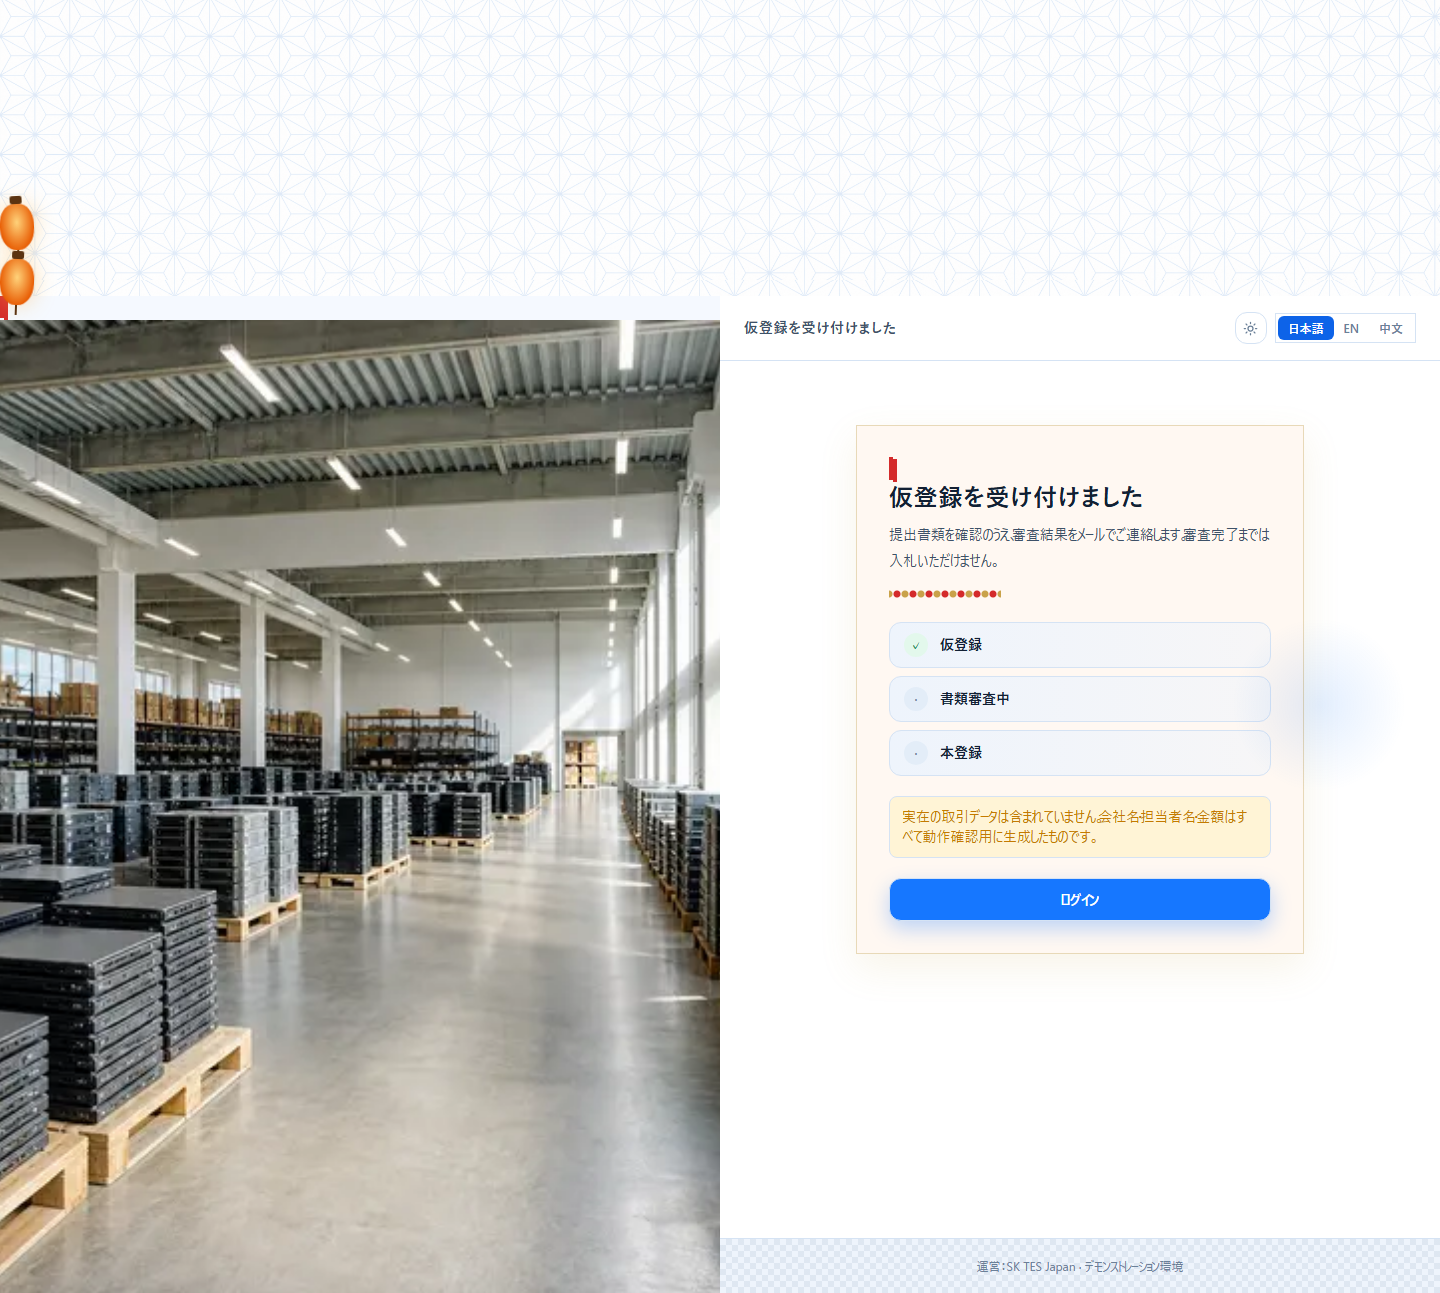
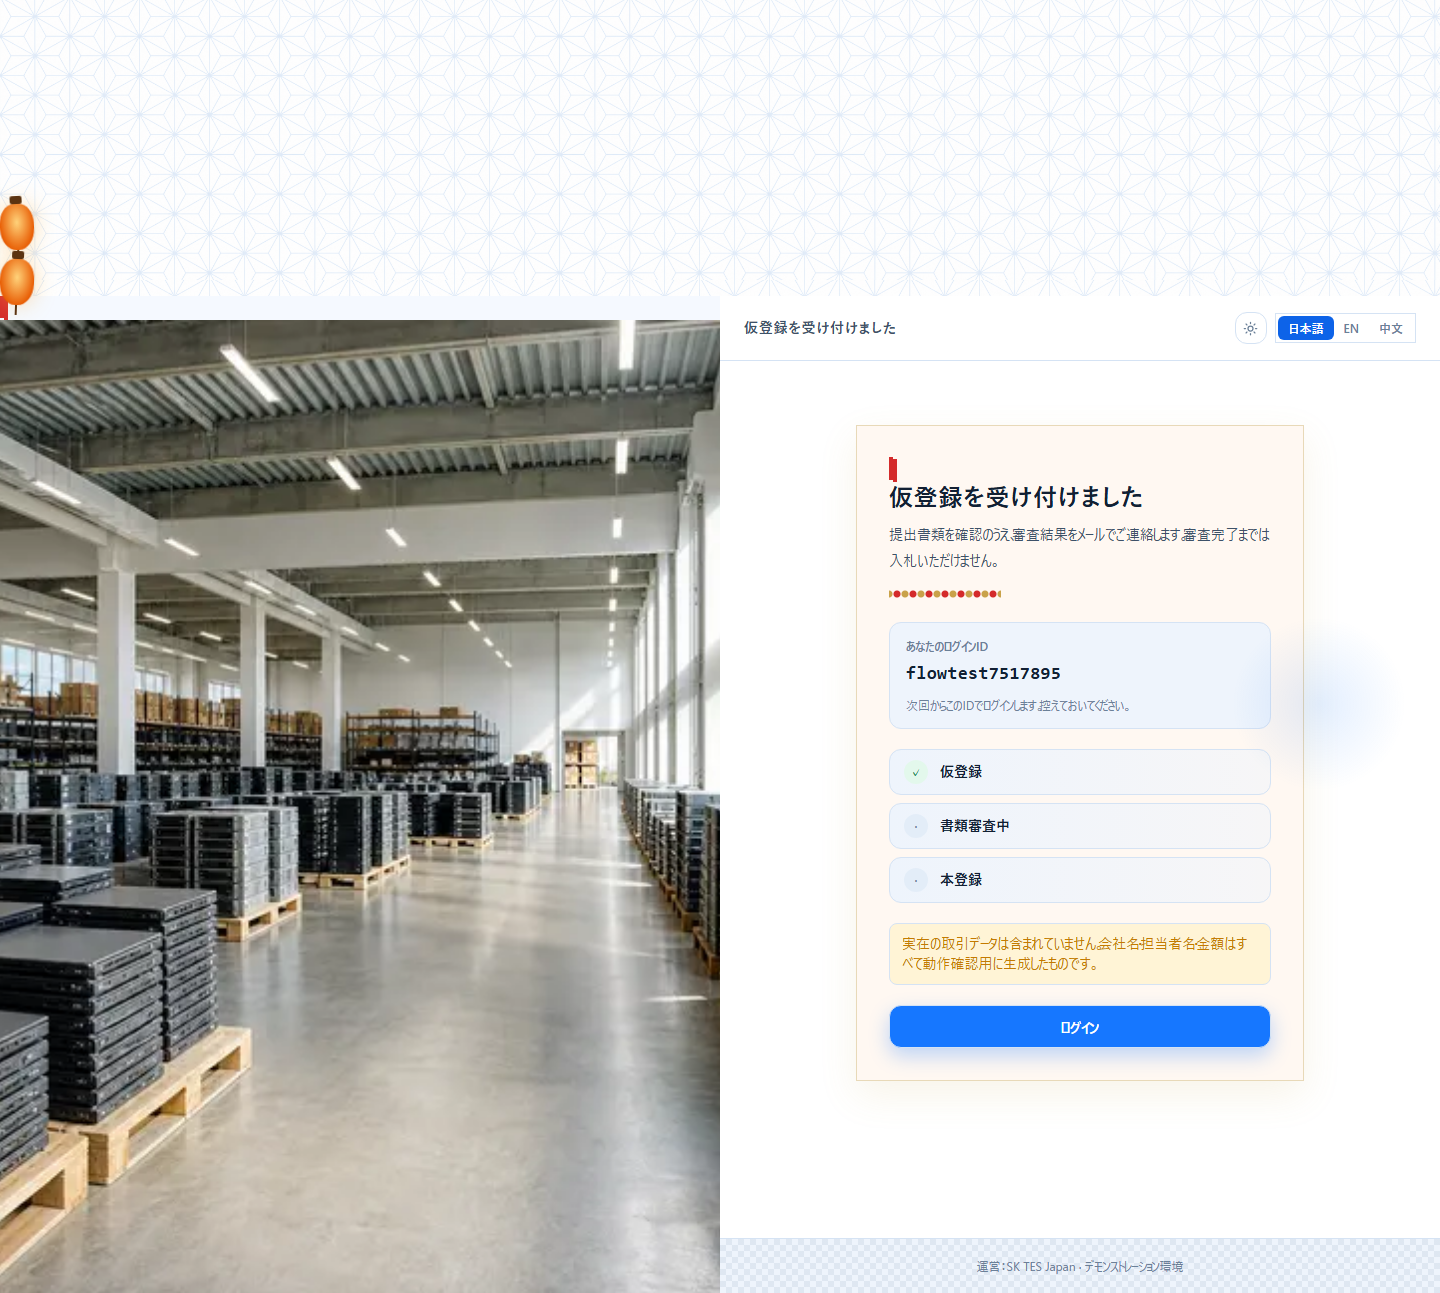
登録のあとに、決めたログインIDを画面に出す
ログインをIDに切り替えたのに、仮登録の完了画面がIDに触れておらず、
自分で決めたばかりのIDを確かめる場所がどこにも無かった。完了画面の
先頭に出すようにする。

URLから受け取った値をそのまま出さないよう、IDとして正しい形のものだけ
表示する。値が無い場合はこれまでどおりの画面になる。

検証: 型検査・本番ビルド・業務フロー35項目を通過。IDの表示、
壊れた値を出さないこと、値が無くても描画されることを個別に確認した。

Changed region(s): [[0.5938, 0.495, 0.9062, 0.8353]]

diff --git a/src/app/register/done/page.tsx b/src/app/register/done/page.tsx
@@ -3,11 +3,19 @@ import type { Metadata } from "next";
 import { AuthShell } from "@/components/AuthShell";
 import { FormNotice } from "@/components/form";
 import { getDictionary } from "@/i18n";
+import { LOGIN_ID_PATTERN } from "@/lib/auth";
 
 export const metadata: Metadata = { title: "仮登録を受け付けました" };
 
-export default async function RegisterDonePage() {
+export default async function RegisterDonePage({
+  searchParams,
+}: {
+  searchParams: Promise<{ id?: string }>;
+}) {
   const dict = await getDictionary();
+  const { id } = await searchParams;
+  // Only ever echo back something shaped like an ID we would have issued.
+  const loginId = id && LOGIN_ID_PATTERN.test(id) ? id : null;
 
   const steps = [
     { key: "PENDING", done: true },
@@ -18,6 +26,20 @@ export default async function RegisterDonePage() {
   return (
     <AuthShell title={dict.member.doneTitle} lead={dict.member.doneLead}>
       <div className="space-y-5">
+        {loginId && (
+          <div className="rounded-xl border border-line bg-surface-2 px-4 py-3">
+            <p className="text-xs font-semibold text-muted">
+              {dict.member.yourLoginId}
+            </p>
+            <p className="select-all font-mono text-lg font-bold tracking-wide text-ink">
+              {loginId}
+            </p>
+            <p className="mt-1 text-xs text-muted">
+              {dict.member.yourLoginIdHint}
+            </p>
+          </div>
+        )}
+
         <ol className="space-y-2">
           {steps.map((s) => (
             <li

diff --git a/src/i18n/ja.ts b/src/i18n/ja.ts
@@ -565,6 +565,8 @@ export const ja = {
     terms: "利用規約",
     agreeTerms: "利用規約に同意します",
     submitApplication: "仮登録を申請する",
+    yourLoginId: "あなたのログインID",
+    yourLoginIdHint: "次回からこのIDでログインします。控えておいてください。",
     doneTitle: "仮登録を受け付けました",
     doneLead: "提出書類を確認のうえ、審査結果をメールでご連絡します。審査完了までは入札いただけません。",
     statusTitle: "審査ステータス",

diff --git a/src/i18n/en.ts b/src/i18n/en.ts
@@ -566,6 +566,8 @@ export const en: Dictionary = {
     terms: "Terms of use",
     agreeTerms: "I accept the terms of use",
     submitApplication: "Submit application",
+    yourLoginId: "Your login ID",
+    yourLoginIdHint: "You will sign in with this from now on. Please keep a note of it.",
     doneTitle: "Your application has been received",
     doneLead: "We will review your documents and email you the outcome. Bidding is unavailable until review completes.",
     statusTitle: "Review status",

diff --git a/src/i18n/zh.ts b/src/i18n/zh.ts
@@ -565,6 +565,8 @@ export const zh: Dictionary = {
     terms: "使用条款",
     agreeTerms: "我已阅读并同意使用条款",
     submitApplication: "提交临时注册申请",
+    yourLoginId: "您的登录ID",
+    yourLoginIdHint: "今后请使用该ID登录，请妥善记录。",
     doneTitle: "已受理临时注册",
     doneLead: "我们将审核您提交的资料并以邮件通知结果。审核完成前无法投标。",
     statusTitle: "审核状态",

diff --git a/src/app/register/actions.ts b/src/app/register/actions.ts
@@ -202,5 +202,5 @@ export async function registerAction(
     },
   });
 
-  redirect("/register/done");
+  redirect(`/register/done?id=${encodeURIComponent(parsed.data.loginId)}`);
 }
